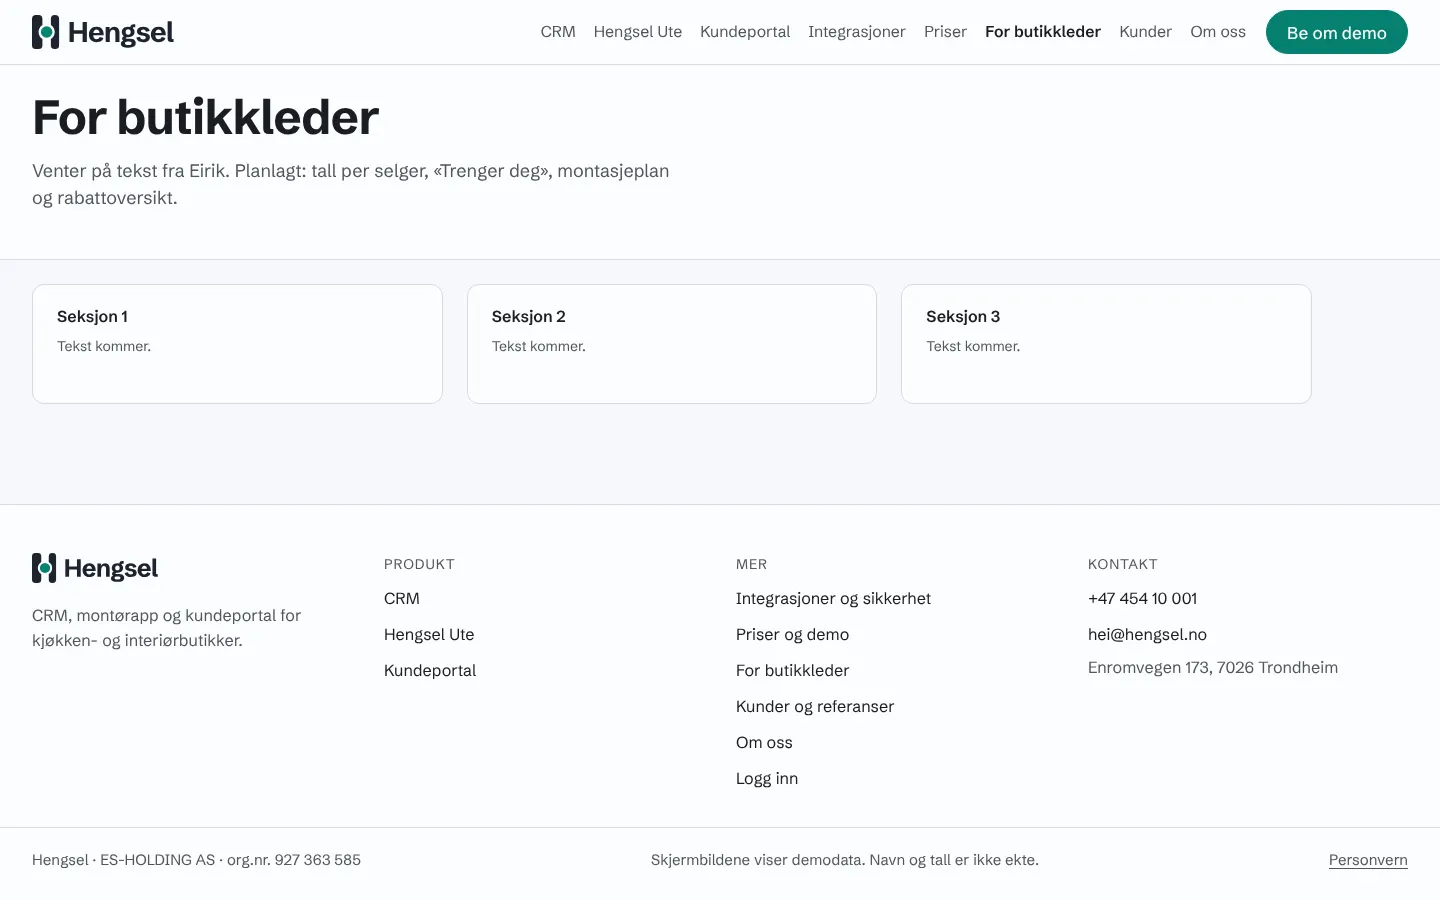
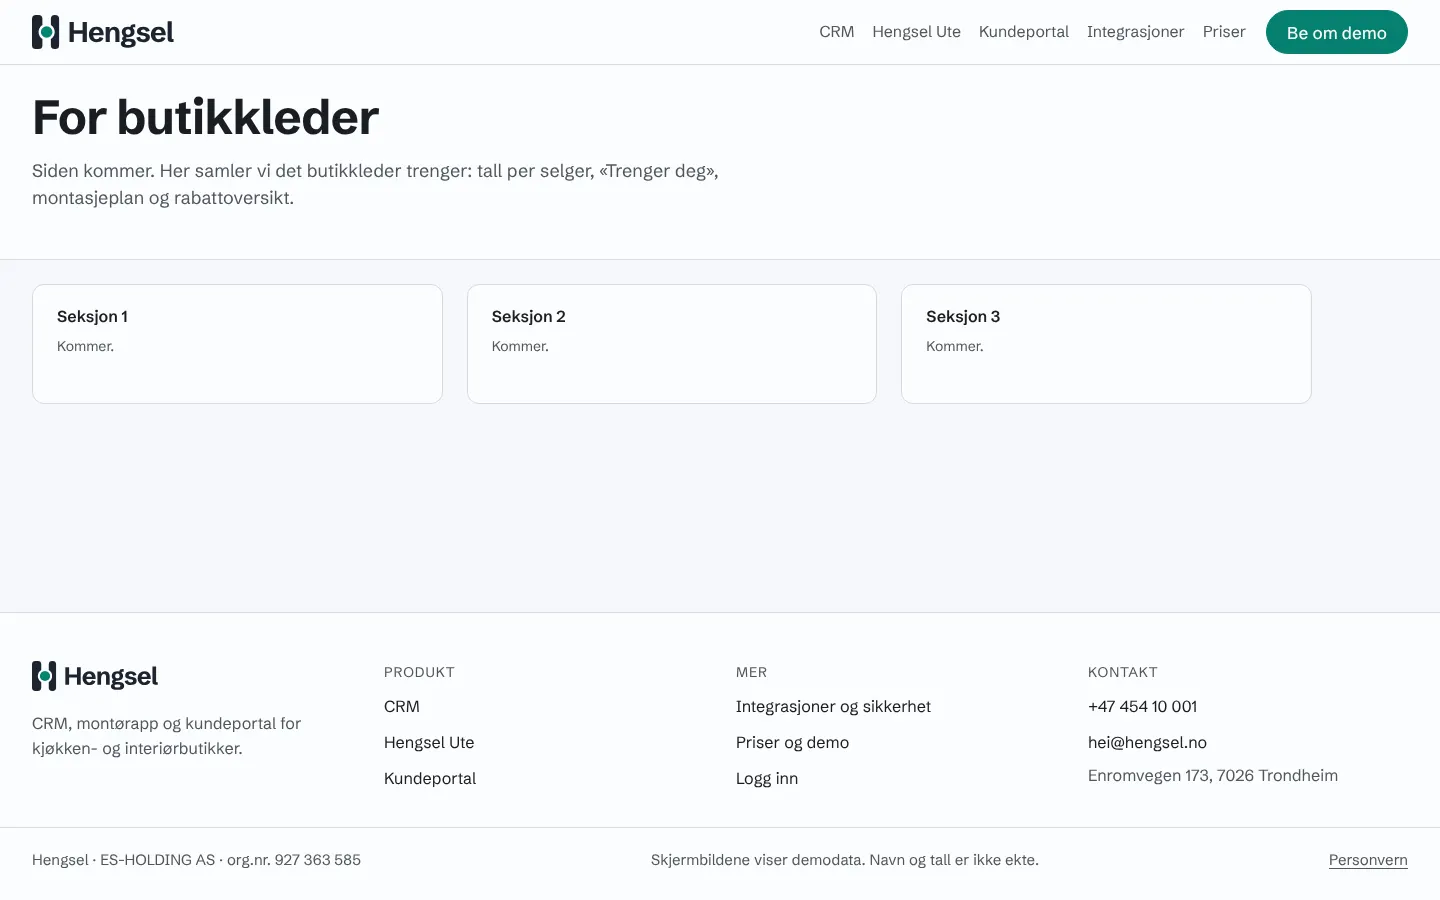
N-3b: KOMMER-sidene ut av menyen og bunnen, nøytrale ingresser og «Kommer.», ny /crm-ingress (Eirik 17.10, svar A)
Claude-Session: https://claude.ai/code/session_017DuAy8Nb2JfkeN7D4xej69

diff --git a/sites/hengsel/src/content/kommer.ts b/sites/hengsel/src/content/kommer.ts
@@ -1,34 +1,34 @@
 // Sidene merket KOMMER i sidekartet (S-68): 25-008 For butikkleder, 25-009 Kunder og referanser, 25-010 Om oss.
-// Tekstene er ordrett fra tegningene (25-008.webp, 25-009.webp, 25-010.webp); der innholdet mangler, står «Tekst kommer.» (Tekstflis kommer).
-// Sidene har noindex og står ikke i sitemap.txt til teksten er på plass (N-3-rapporten).
+// Titlene og flisene er fra tegningene (25-008.webp, 25-009.webp, 25-010.webp); ingressene er nøytrale (N-3b), og fliser uten innhold viser «Kommer.»
+// (Tekstflis kommer). Sidene har noindex, står ikke i sitemap.txt og lenkes ikke fra menyen eller bunnen før teksten er på plass (Eirik 17.10, svar A).
 import { EPOST, TEL } from "./forside";
 
 export interface KommerSide {
   tittel: string;
   beskrivelse: string;
   ingress: string;
-  /** Rad 1 (120): fliser – tittel og tekst (uten tekst: «Tekst kommer.») */
+  /** Rad 1 (120): fliser – tittel og tekst (uten tekst: «Kommer.») */
   fliser: { tittel: string; tekst?: string }[];
 }
 
 export const FOR_BUTIKKLEDER: KommerSide = {
   tittel: "For butikkleder",
   beskrivelse: "Hengsel for butikkleder. Siden kommer.",
-  ingress: "Venter på tekst fra Eirik. Planlagt: tall per selger, «Trenger deg», montasjeplan og rabattoversikt.",
+  ingress: "Siden kommer. Her samler vi det butikkleder trenger: tall per selger, «Trenger deg», montasjeplan og rabattoversikt.",
   fliser: [{ tittel: "Seksjon 1" }, { tittel: "Seksjon 2" }, { tittel: "Seksjon 3" }],
 };
 
 export const KUNDER: KommerSide = {
   tittel: "Kunder og referanser",
   beskrivelse: "Kunder og referanser for Hengsel. Siden kommer.",
-  ingress: "Venter på tekst og tillatelse fra kundene.",
+  ingress: "Siden kommer. Referansene legges ut etter avtale med kundene.",
   fliser: [{ tittel: "Referanse 1" }, { tittel: "Referanse 2" }, { tittel: "Referanse 3" }],
 };
 
 export const OM_OSS: KommerSide = {
   tittel: "Om oss",
   beskrivelse: "Om Hengsel og ES-HOLDING AS.",
-  ingress: "Venter på tekst fra Eirik.",
+  ingress: "Siden kommer.",
   fliser: [
     { tittel: "Hvem vi er", tekst: "Hengsel · ES-HOLDING AS · org.nr. 927 363 585 · Enromvegen 173, 7026 Trondheim." },
     { tittel: "Kontakt", tekst: `${TEL} · ${EPOST}` },

diff --git a/sites/hengsel/src/content/nav.ts b/sites/hengsel/src/content/nav.ts
@@ -1,5 +1,6 @@
 // Menyen og bunnen på hengsel.no. Fasit for menyen: sidekartet 25-001–25-012 (S-68, «Rammen»): CRM, Hengsel Ute, Kundeportal, Integrasjoner, Priser og
-// «Be om demo», pluss sidene merket KOMMER (25-008–25-010), som skal lenkes fra menyen (N-3). Bunnen: docs/design/hengsel/Bunn.dc.html.
+// «Be om demo». Sidene merket KOMMER (25-008 /for-butikkleder, 25-009 /kunder, 25-010 /om-oss) lenkes ikke fra menyen eller bunnen før teksten er på plass
+// (Eirik 17.10, svar A, N-3b); de finnes på adressene sine med noindex. Bunnen: docs/design/hengsel/Bunn.dc.html.
 export const LOGG_INN = "https://vis.hengsel.no";
 export const APPTEST = "https://hengsel.no/apptest";
 
@@ -10,12 +11,10 @@ export const MENY = [
   ["portal", "Kundeportal", "/kundeportal"],
   ["int", "Integrasjoner", "/integrasjoner"],
   ["pris", "Priser", "/priser-og-demo"],
-  ["leder", "For butikkleder", "/for-butikkleder"],
-  ["kunder", "Kunder", "/kunder"],
-  ["om", "Om oss", "/om-oss"],
 ] as const;
-/** Hengsels meny, pluss «slik» og «dok», som bare kundeutgavene (kunde.ts) har: Slik virker det og Dokumenter ligger ikke lenger på hengsel.no (K-229). */
-export type MenyNokkel = (typeof MENY)[number][0] | "slik" | "dok";
+/** Hengsels meny, pluss «slik» og «dok», som bare kundeutgavene (kunde.ts) har: Slik virker det og Dokumenter ligger ikke lenger på hengsel.no (K-229).
+ *  «leder», «kunder» og «om» er KOMMER-sidene (25-008–25-010): ikke i menyen før teksten finnes (N-3b), men nøkkelen settes som `aktiv` på sidene. */
+export type MenyNokkel = (typeof MENY)[number][0] | "slik" | "dok" | "leder" | "kunder" | "om";
 
 export const BUNN_PRODUKT = [["CRM", "/crm"], ["Hengsel Ute", "/ute"], ["Kundeportal", "/kundeportal"]] as const;
-export const BUNN_MER = [["Integrasjoner og sikkerhet", "/integrasjoner"], ["Priser og demo", "/priser-og-demo"], ["For butikkleder", "/for-butikkleder"], ["Kunder og referanser", "/kunder"], ["Om oss", "/om-oss"], ["Logg inn", LOGG_INN]] as const;
+export const BUNN_MER = [["Integrasjoner og sikkerhet", "/integrasjoner"], ["Priser og demo", "/priser-og-demo"], ["Logg inn", LOGG_INN]] as const;

diff --git a/sites/hengsel/src/content/crm.ts b/sites/hengsel/src/content/crm.ts
@@ -1,9 +1,9 @@
-// /crm: tekstene. Fasit: sidekartet 25-002 (S-68). Tittel, ingress og modulene er fra LES-MEG.md (/crm, K-160). N-3 tok bort den klikkbare
-// demoen (CrmSkjerm og dataene til den); demoen finnes på demo.hengsel.no.
+// /crm: tekstene. Fasit: sidekartet 25-002 (S-68). Tittelen og modulene er fra LES-MEG.md (/crm, K-160). N-3 tok bort den klikkbare demoen
+// (CrmSkjerm og dataene til den; demoen finnes på demo.hengsel.no), og N-3b ga ingressen ny tekst uten «Klikk deg gjennom» (Eirik 17.10).
 
 export const CRM_SIDE = {
   eyebrow: "Hengsel CRM", h1: "Hele butikken på én skjerm.",
-  lede: "Klikk deg gjennom en vanlig morgen: et avvik i ordrebekreftelsen, en ny tegning fra CET og montasjeplanen etterpå.",
+  lede: "En vanlig morgen i Hengsel CRM: et avvik i ordrebekreftelsen, en ny tegning fra CET og montasjeplanen etterpå – alt på samme kundekort.",
   modulerEyebrow: "I CRM", modulerH2: "Samme kundekort for selger, kontor og leder.",
 };
 export const CRM_MODULER: [string, string][] = [

diff --git a/claude/n3-rapport.md b/claude/n3-rapport.md
@@ -77,4 +77,19 @@ Ingen. Det eneste som mangler, er filmen «En dag i butikken» (25-001). Den er 
 6. /apptest under toppen er ikke i kitet ennå. Den bør tegnes om i Design hvis den skal følge 25-012 helt.
 7. Motion for Hengsel Ute og «Levert av Hengsel»-merket brukes ikke lenger på hengsel.no (filene ligger der fortsatt).
 
+## N-3b (Eirik 17.10, svar A)
+
+- **KOMMER-sidene er tatt ut av menyen og bunnen** til tekstene finnes (`nav.ts`: `leder`, `kunder` og `om` er fjernet fra `MENY` og `BUNN_MER`).
+  Nøklene står fortsatt i `MenyNokkel`, så `aktiv="om"` osv. typesjekker. Sidene finnes på /for-butikkleder, /kunder og /om-oss med noindex, og står ikke i sitemap.
+  Lenkesjekken finner sidene fra filene i `dist` og har ingen regel om foreldreløse sider, så det trengs ingen unntak. De tre sidene svarer 200 i lenkesjekken.
+  Ingen test krevde dem i menyen (`merkepakke`, `kundetema` og lenkesjekken er uendret).
+- **Ingressene** er nøytrale og nevner verken Eirik eller «venter»: «Siden kommer. Her samler vi det butikkleder trenger: …», «Siden kommer. Referansene legges
+  ut etter avtale med kundene.» og «Siden kommer.». Fliser uten tekst viser «Kommer.» (`Tekstflis kommer`). «Hvem vi er» og «Kontakt» er uendret.
+- **/crm** har ny ingress uten «Klikk deg gjennom» («En vanlig morgen i Hengsel CRM: … – alt på samme kundekort.») og ny description med lenke til
+  demo.hengsel.no i teksten. Modulene er urørt.
+- Filmflisen, sikkerhetstabellen med fem rader og personvernteksten om skjemaet står som før (Eirik har sett dem). Punktene 1 og 2 under «Hva Eirik bør se på» er dermed løst.
+- Nye skjermbilder: `n3b-meny-1440.png` og `n3b-meny-390.png` (menypanelet åpent) og `n3b-om-oss-1440.png`. Bildene av 25-001, 25-002 og 25-008–25-010
+  på 1440 og 390 er tatt på nytt.
+- `npm run build` er grønt for alle nettstedene. `npm test`: 203 av 203 grønne, og lenkesjekken har 0 feil i 749 forespørsler.
+
 N-3 KLAR
